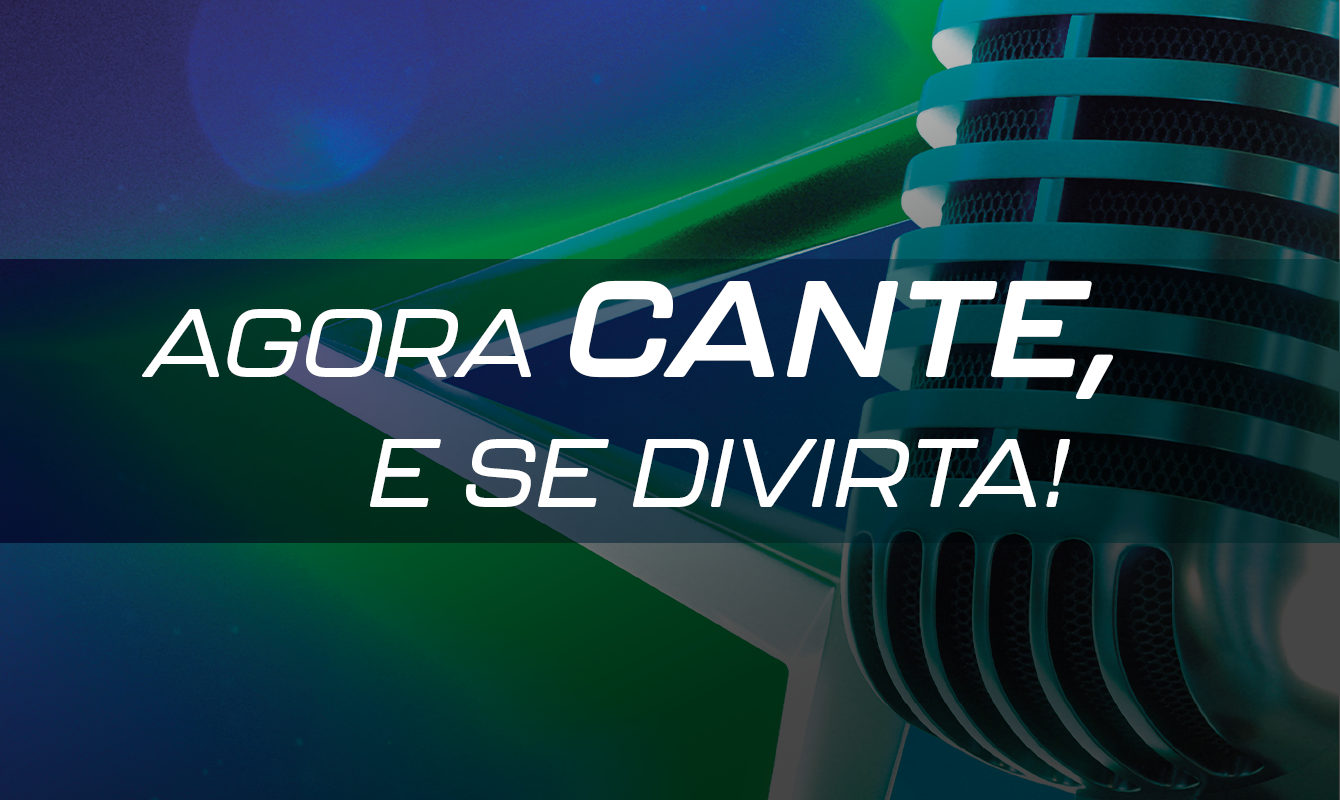
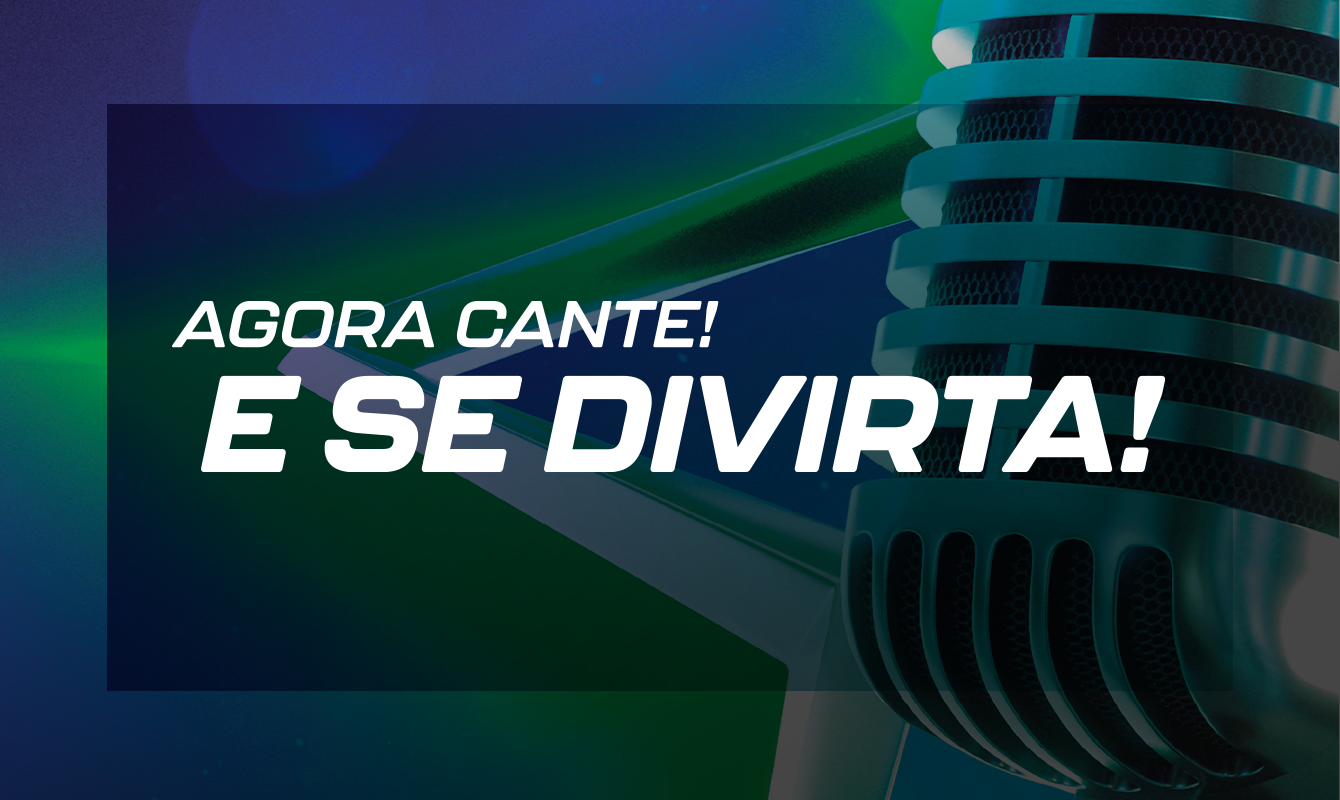
feat: update images

diff --git a/templates/tablet/music-list.html b/templates/tablet/music-list.html
@@ -4,14 +4,14 @@
     <meta charset="UTF-8"/>
     <meta name="viewport" content="width=device-width, initial-scale=1.0"/>
     <link rel="stylesheet" href="./static/tablet/assets/css/tablet.css"/>
-    <title>Document</title>
+    <title>Musicas</title>
     <script src="https://cdnjs.cloudflare.com/ajax/libs/socket.io/4.3.2/socket.io.js"></script>
 </head>
 <body>
 <div class="container">
     <div class="music-title">
-        <h1>ESCOLHA A SUA</h1>
-        <h2>MÚSICA</h2>
+<!--        <h2>ESCOLHA A SUA</h2>-->
+<!--        <h2>MÚSICA</h2>-->
     </div>
 
     <div class="songs-list">

diff --git a/templates/download.html b/templates/download.html
@@ -4,7 +4,7 @@
     <meta charset="UTF-8"/>
     <meta name="viewport" content="width=device-width, initial-scale=1.0"/>
     <link rel="stylesheet" href="{{ url_for('static', filename='mobile/assets/css/mobile.css') }}">
-    <title>Document</title>
+    <title>Download</title>
     <script>
         function initiateDownload() {
             window.location.href = "{{ url_for('download_video', filename=filename) }}";

diff --git a/templates/error.html b/templates/error.html
@@ -4,7 +4,7 @@
     <meta charset="UTF-8" />
     <meta name="viewport" content="width=device-width, initial-scale=1.0" />
     <link rel="stylesheet" href="{{ url_for('static', filename='mobile/assets/css/expired.css') }}">
-    <title>Document</title>
+    <title>Expirou</title>
   </head>
   <body>
     <div class="container">

diff --git a/templates/tablet/termos.html b/templates/tablet/termos.html
@@ -4,7 +4,7 @@
     <meta charset="UTF-8"/>
     <meta name="viewport" content="width=device-width, initial-scale=1.0"/>
     <link rel="stylesheet" href="./static/tablet/assets/css/terms.css"/>
-    <title>Document</title>
+    <title>Termos</title>
 </head>
 <body>
 <div class="remove-overlay overlay">

diff --git a/templates/mobile/expired.html b/templates/mobile/expired.html
@@ -4,7 +4,7 @@
     <meta charset="UTF-8" />
     <meta name="viewport" content="width=device-width, initial-scale=1.0" />
     <link rel="stylesheet" href="./assets/css/expired.css" />
-    <title>Document</title>
+    <title>Expirado</title>
   </head>
   <body>
     <div class="container">

diff --git a/templates/mobile/home.html b/templates/mobile/home.html
@@ -4,7 +4,7 @@
     <meta charset="UTF-8" />
     <meta name="viewport" content="width=device-width, initial-scale=1.0" />
     <link rel="stylesheet" href="./assets/css/mobile.css" />
-    <title>Document</title>
+    <title>Download</title>
   </head>
   <body>
     <div class="container">

diff --git a/static/tablet/assets/css/tablet.css b/static/tablet/assets/css/tablet.css
@@ -10,7 +10,7 @@
 }
 
 body {
-  background: url("../imgs/Backgorund_estrelas.png");
+  background: url("../imgs/sem_quadrado.png");
   background-repeat: no-repeat;
   width: 100%;
   display: block;
